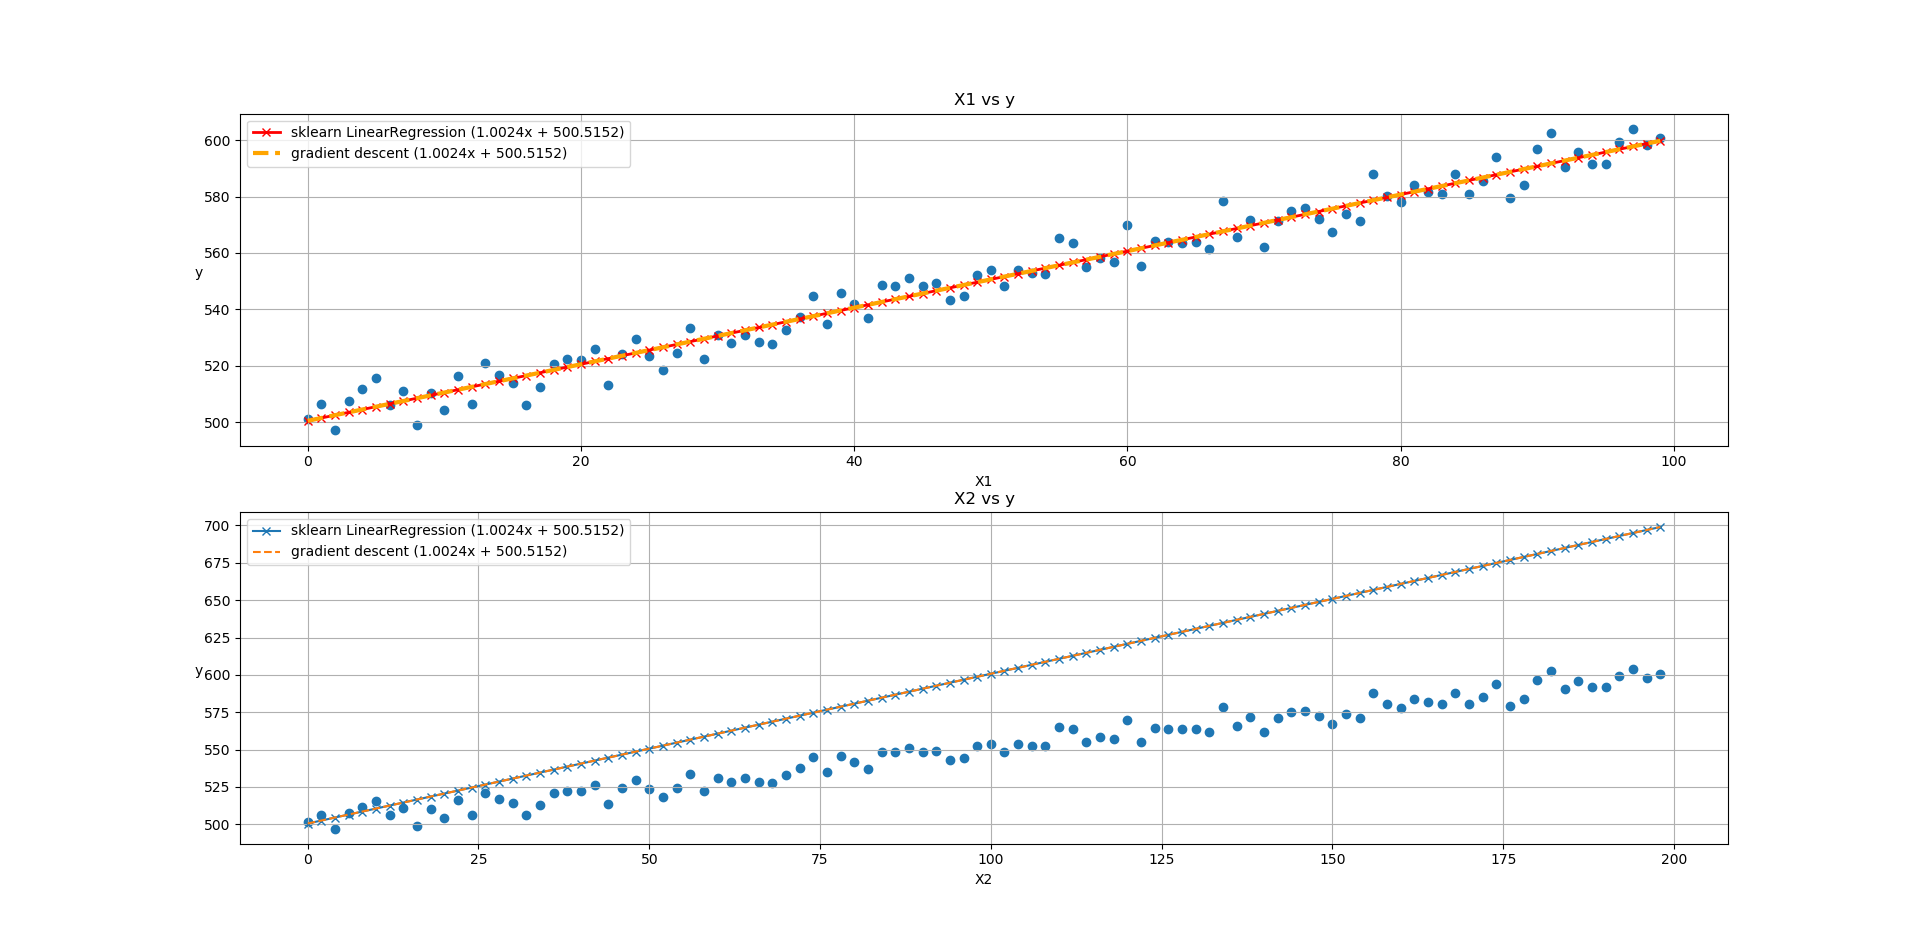
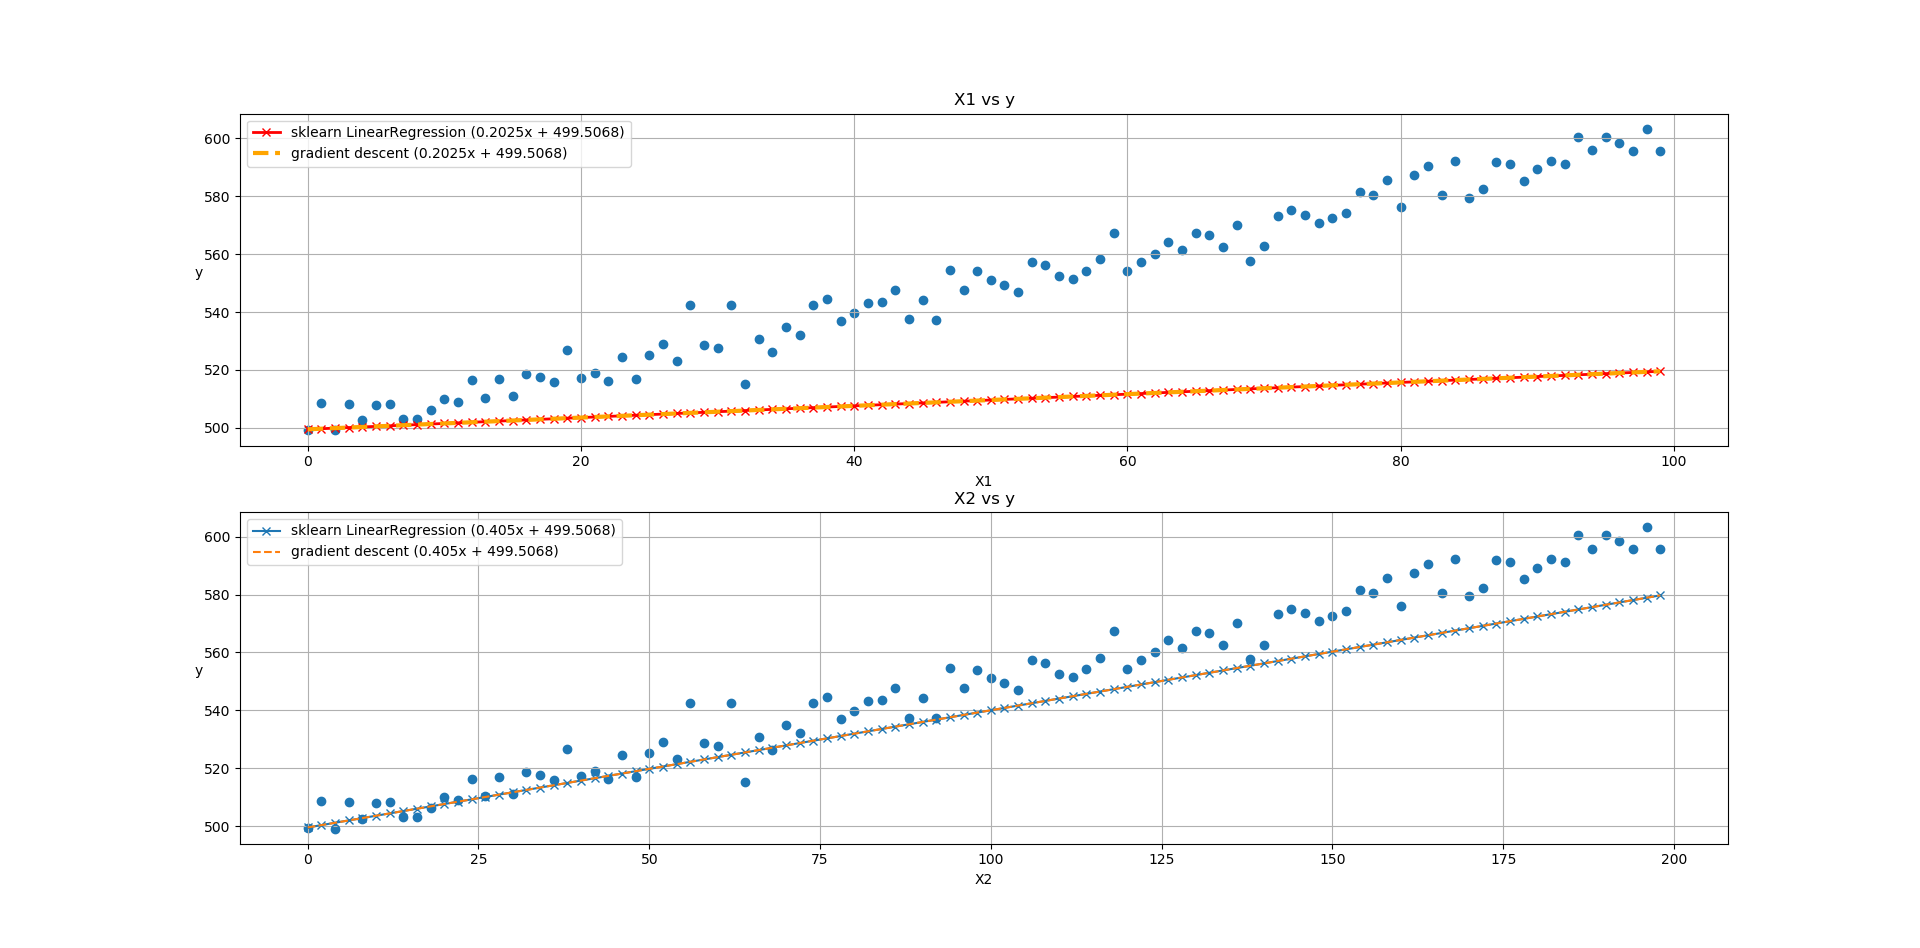
update

diff --git a/linear_regression.py b/linear_regression.py
@@ -52,7 +52,7 @@ if __name__ == "__main__":
     X2 = np.array([i*2 for i in range(100)]).reshape(100,1)
     X = np.concatenate((X1,X2), axis = 1)   
  
-    X = X1
+#    X = X1
     
     noise = 5* np.random.normal(0,1,X1.shape) + 500
     y = (X1 + noise).flatten()
@@ -95,11 +95,11 @@ if __name__ == "__main__":
     
     clf = LinearRegression()
     clf = clf.fit(X, y)
-    m, c = clf.coef_[0], clf.intercept_
+    m, c = clf.coef_[1], clf.intercept_
     ax2.plot(X2, list(map(lambda x: m*x + c, X2)), label = "sklearn LinearRegression ({0}x + {1})".format(round(m,4), round(c,4)), marker = "x") 
 #    m, c = linregress(X2.flatten(), y)[:2]
 #    ax2.scatter(X2, list(map(lambda x: m*x + c, X2)), label = "scipy")
-    ax2.plot(X2, list(map(lambda x: thetas[0][1]*x + thetas[0][0], X2)), label ="gradient descent ({0}x + {1})".format(round(thetas[0][1], 4), round(thetas[0][0],4)), linestyle = "--")   
+    ax2.plot(X2, list(map(lambda x: thetas[0][2]*x + thetas[0][0], X2)), label ="gradient descent ({0}x + {1})".format(round(thetas[0][2], 4), round(thetas[0][0],4)), linestyle = "--")   
     ax2.legend()
     ax2.grid()
     
